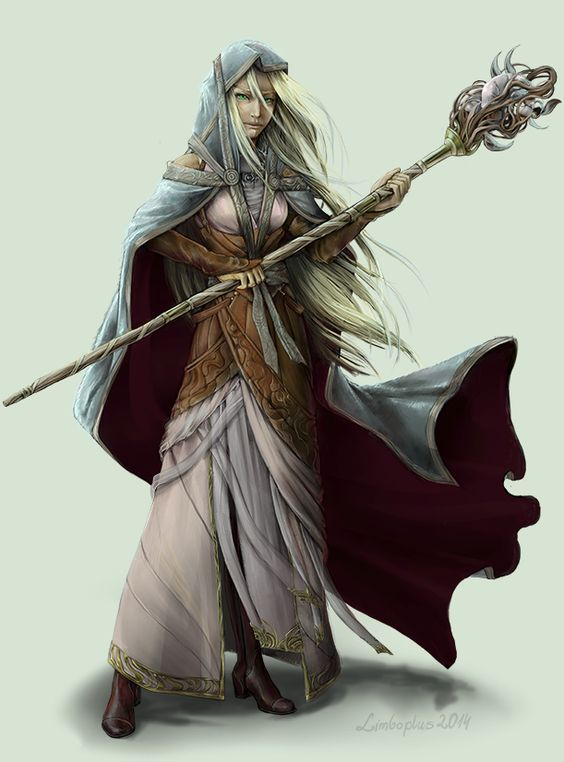
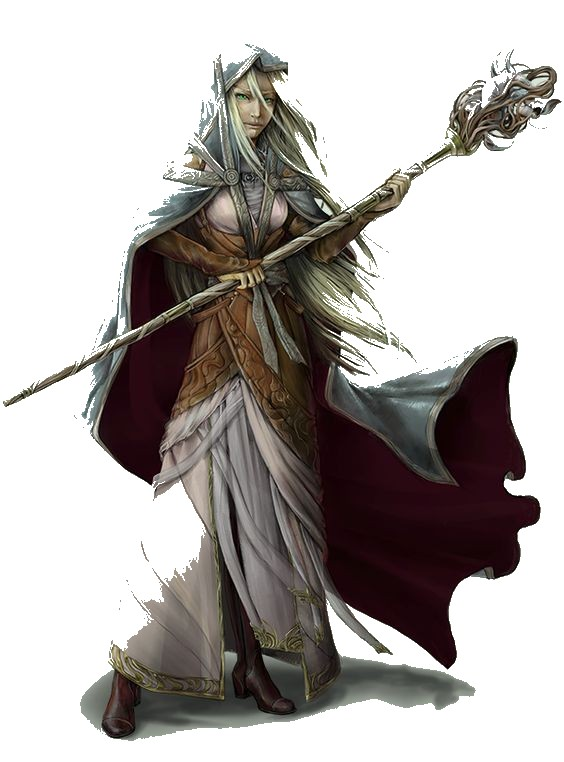
feat: adicionar personagens e ajustar retratos

diff --git a/Game Matar Monstro/js/game-data.js b/Game Matar Monstro/js/game-data.js
@@ -33,6 +33,28 @@ window.GameData = {
       forca: 7,
       especial: 7,
     },
+    {
+      id: 3,
+      nome: 'Assassina',
+      img: 'assets/person/assasina.jpg',
+      animation: 'assets/sprite/Assassina/inicial.gif',
+      animationOK: false,
+      vida: 90,
+      mana: 6,
+      forca: 9,
+      especial: 6,
+    },
+    {
+      id: 5,
+      nome: 'Bruxa',
+      img: 'assets/person/bruxa.jpg',
+      animation: 'assets/sprite/Bruxa/inicial.gif',
+      animationOK: false,
+      vida: 90,
+      mana: 7,
+      forca: 4,
+      especial: 11,
+    },
   ],
   inimigos: [
     {
@@ -64,6 +86,26 @@ window.GameData = {
       vida: 120,
       raiva: 0,
       forca: 10,
+    },
+    {
+      id: 3,
+      nome: 'Esqueleto',
+      img: 'assets/person/esqueeto.jpg',
+      animation: 'assets/sprite/Esqueleto/inicial.gif',
+      animationOK: false,
+      vida: 90,
+      raiva: 1,
+      forca: 9,
+    },
+    {
+      id: 4,
+      nome: 'Cavaleiro',
+      img: 'assets/person/cavaleiro.jpg',
+      animation: 'assets/sprite/Cavaleiro/inicial.gif',
+      animationOK: false,
+      vida: 130,
+      raiva: 1,
+      forca: 11,
     },
   ],
 };

diff --git a/Game Matar Monstro/style.css b/Game Matar Monstro/style.css
@@ -694,7 +694,8 @@ body {
   height: 126px;
   margin: 8px;
   border-radius: 6px;
-  object-fit: cover;
+  object-fit: contain;
+  background: #fff;
 }
 
 .icones {
